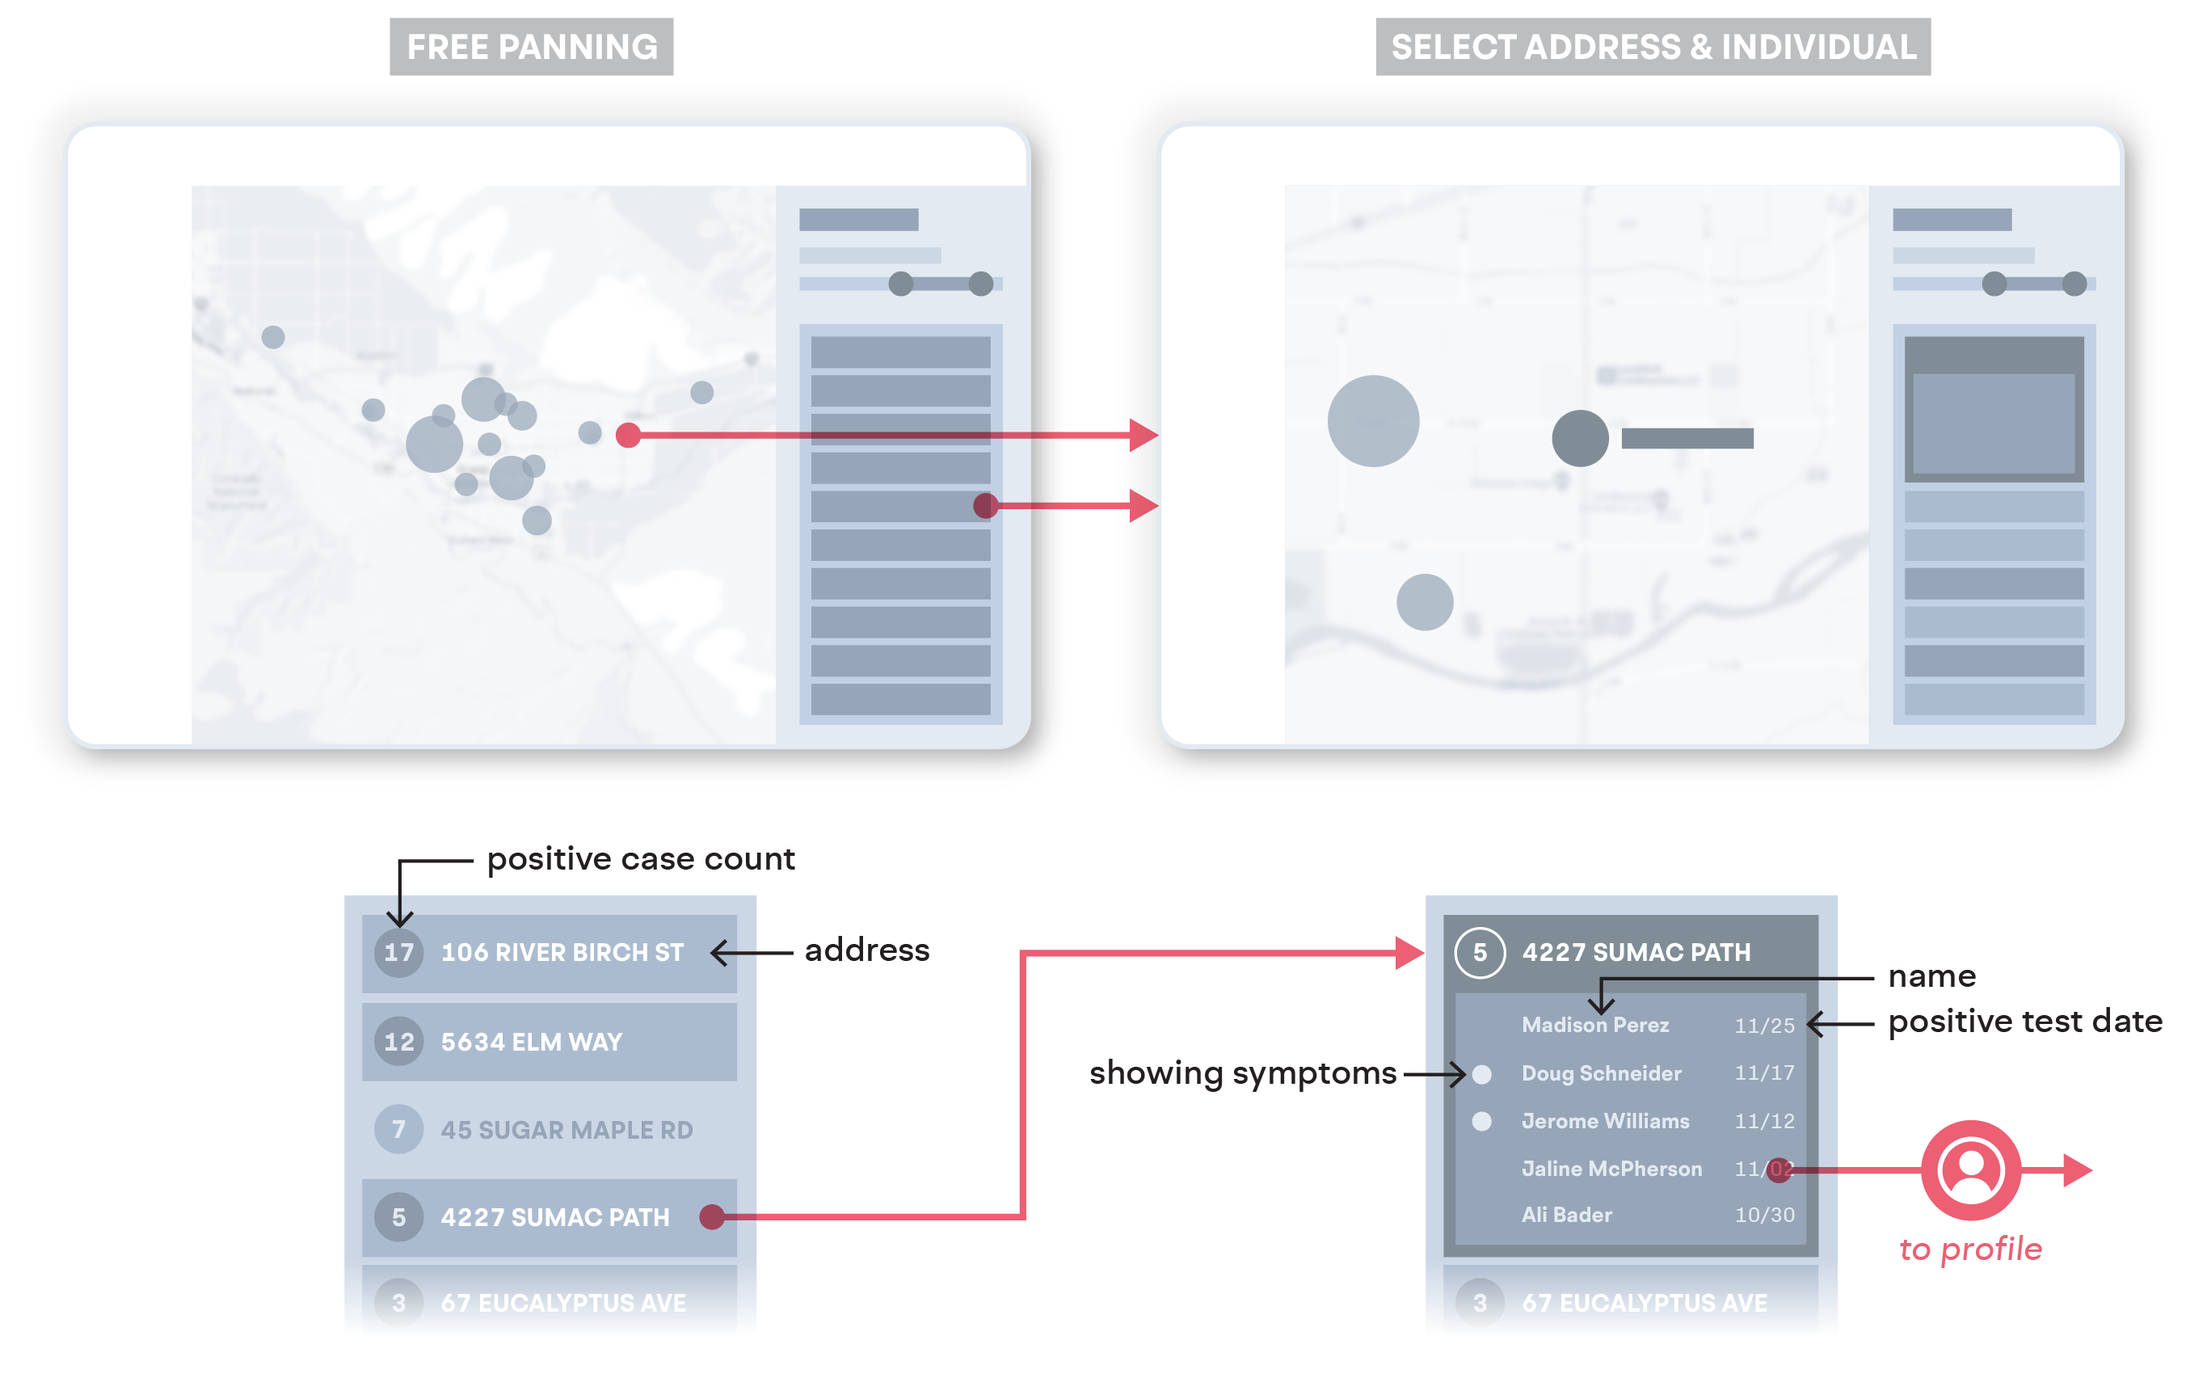
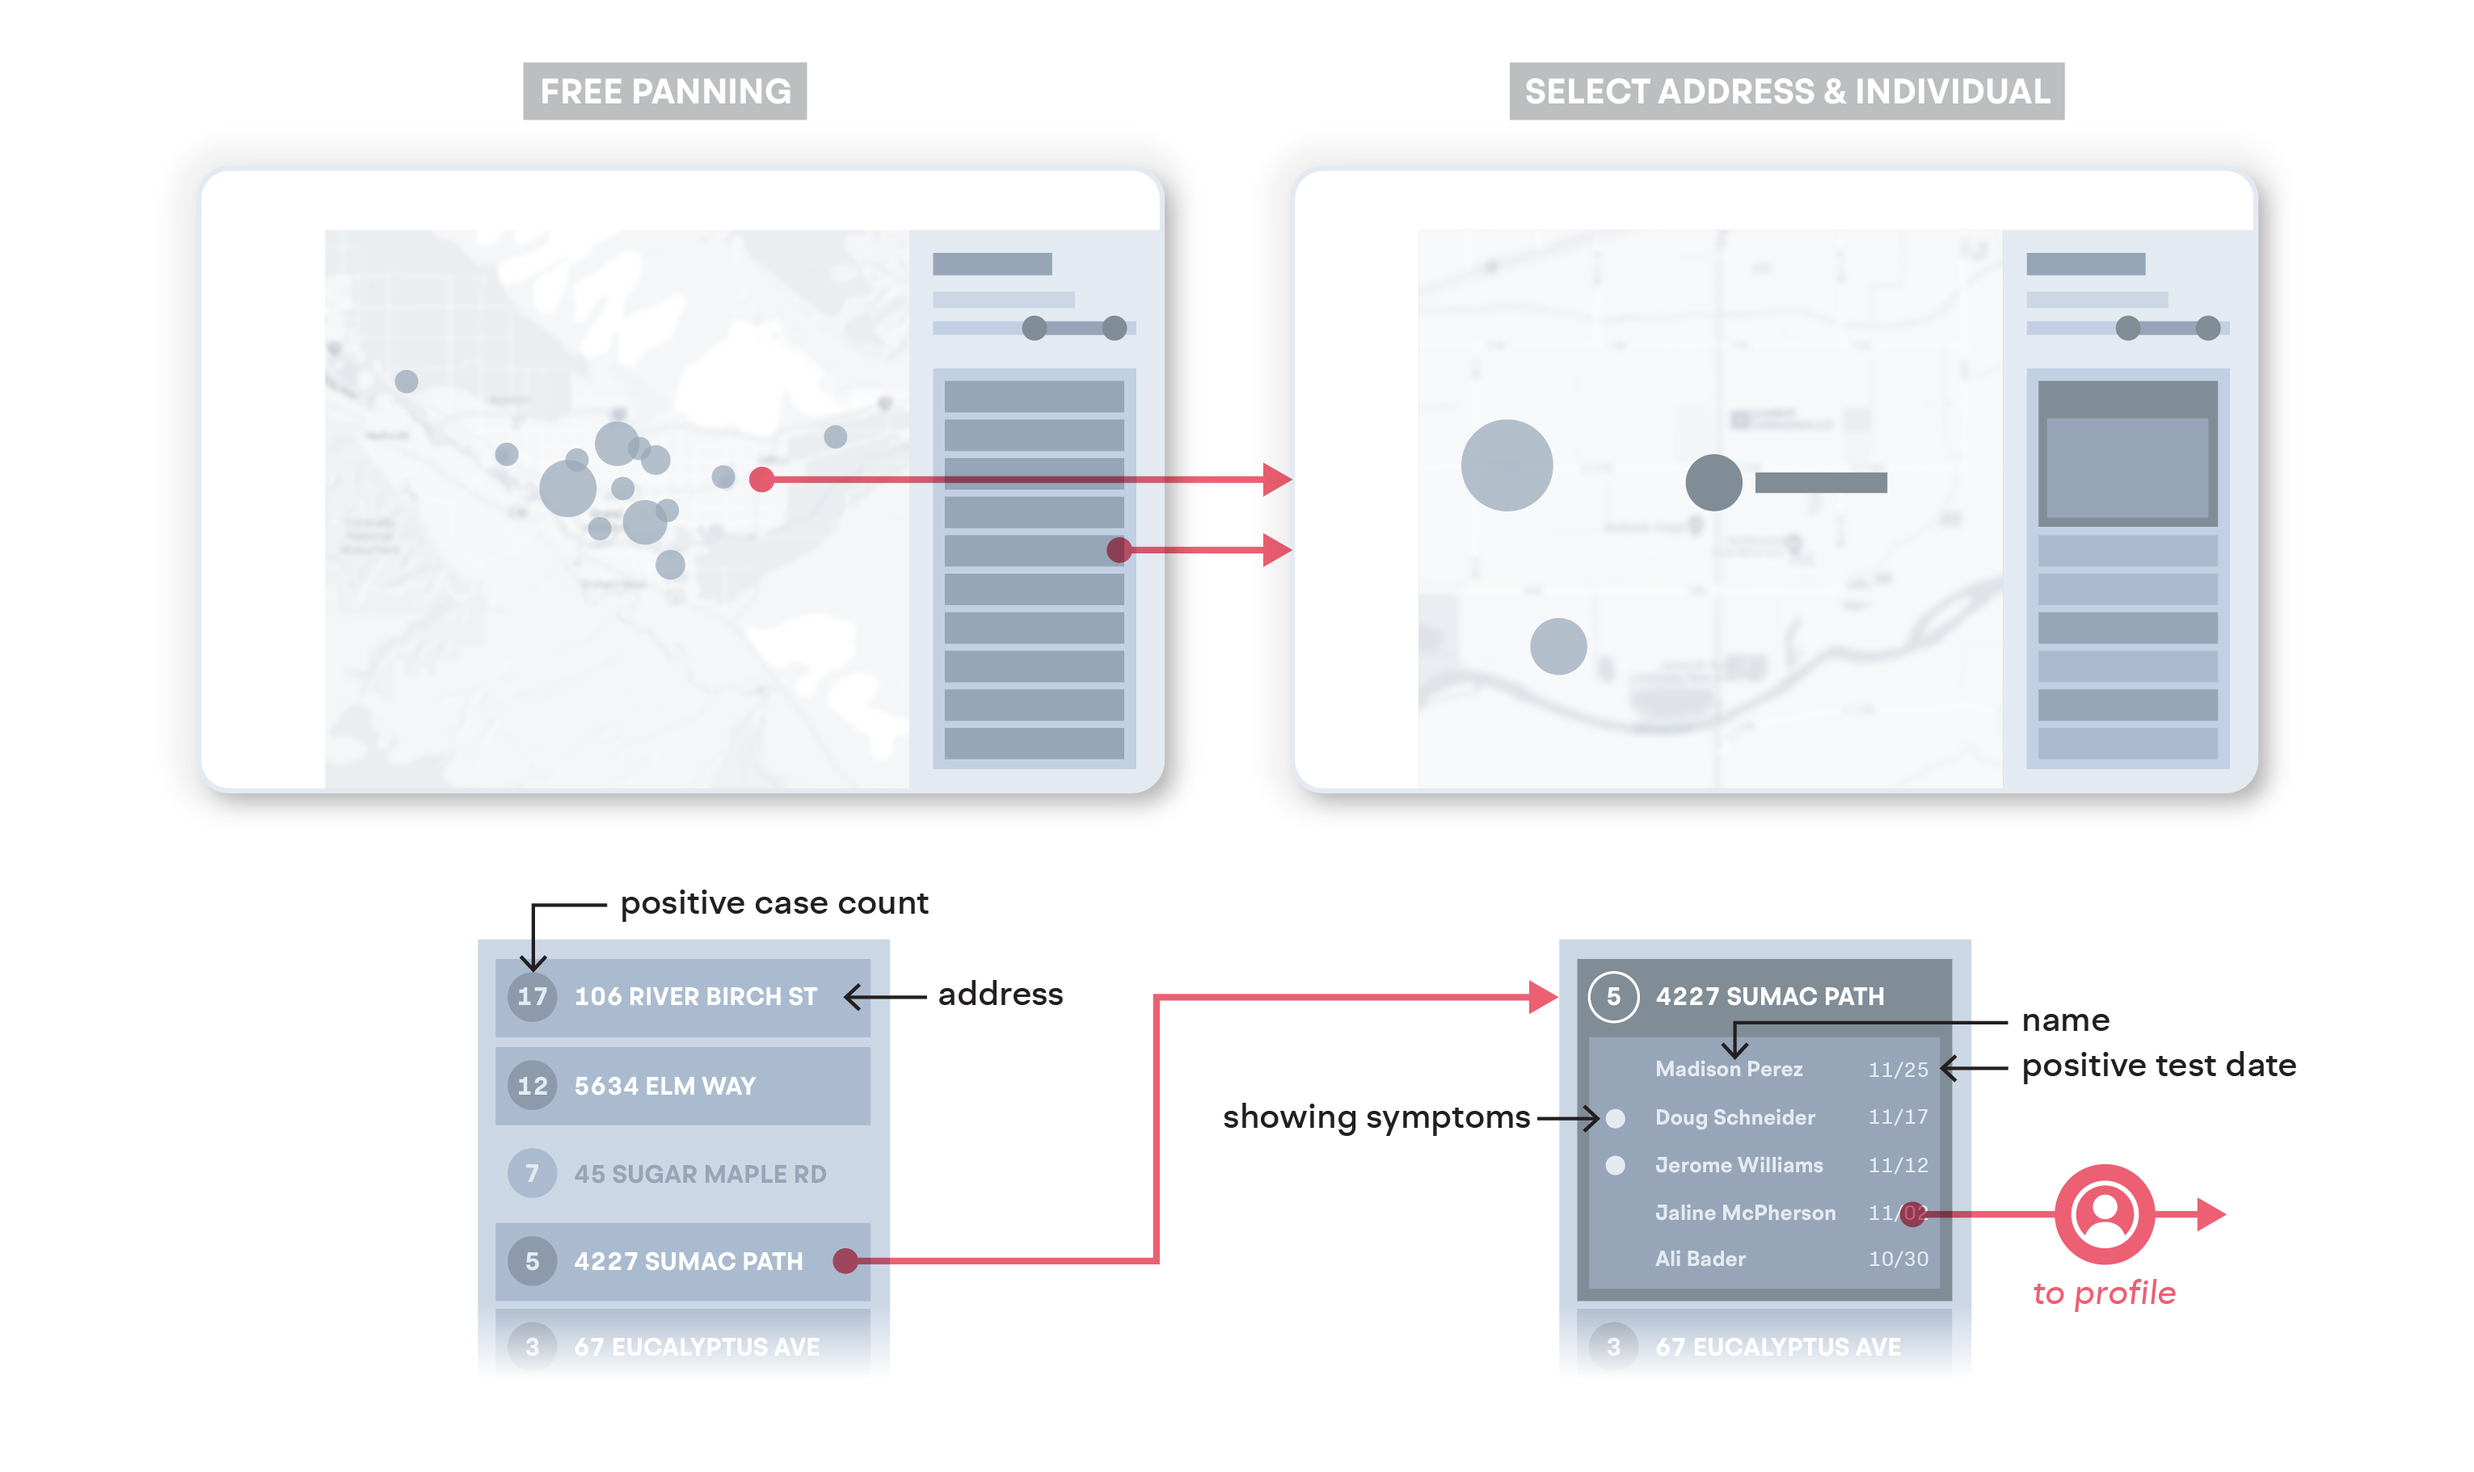
commit

diff --git a/caseStudy.js b/caseStudy.js
@@ -25,9 +25,11 @@ let lookout = [
         type: "section",
         name: "Mapping the Data",
         desc: "We first decided to build an interactive map to visualize the spatial distribution of the university's positive cases. Administrators were most interested in finding symptomatic students in locations with large numbers of positive cases, and being able to see these students' information in more detail.",
-        image: "casemap_wireframe_trans.png",
-        image2: "",
-        imageClass:"single"
+        image: "casemap_wireframe.jpg",
+        shadow: "",
+        shadow2: "shadow-image",
+        imageClass:"single",
+        width:"w-[70%]"
     },
     {
         type: "section",
@@ -41,9 +43,11 @@ let lookout = [
         type: "section",
         name: "",
         desc: "After viewing the case map, administrators were primarily interested in cases that clustered on main campus, as students living off campus were out of their jurisdictional control. With this knowledge, we decided to explore the spatial visualization potential at this finer resolution.",
-        image: "campus_diagram.png",
-        image2: "",
-        imageClass:"single"
+        image: "campus_diagram.jpg",
+        shadow: "",
+        shadow2: "shadow-image",
+        imageClass:"single",
+        width:"w-[60%]"
     },
     {
         type: "divider",
@@ -53,9 +57,11 @@ let lookout = [
         type: "section",
         name: "Dorms Visualization",
         desc: "At CMU, students are grouped into one or more mavilies, which include living clusters, in-person classes, sports teams, and performing arts groups. Administrators find the mavilies most useful as they often point to sources of localized outbreaks and can be used to measure students' levels of probable interaction. These views allow admin to see if there are positive case trends within dorm floors and living mavilies, and investigate whether or not these patterns are related to other non-living mavilies.",
-        image: "dorms_wireframe_trans.png",
-        image2: "",
-        imageClass:"single"
+        image: "dorms_wireframe.jpg",
+        shadow: "",
+        shadow2: "shadow-image",
+        imageClass:"single",
+        width:"w-[90%]"
     },
     {
         type: "section",
@@ -200,9 +206,11 @@ let insights = [
         type: "section",
         name: "",
         desc: "Studio's mapping UI did not use our new design system due to the absence of dark-mode theming. I identified gaps in our current design system to better understand the LOE required and documented proposed modifications to our color palette, components, and iconography as design system debt.",
-        image: "ib_colorguide.png",
-        image2: "",
-        imageClass:"single"
+        image: "ib_colorguide.jpg",
+        shadow: "",
+        shadow2: "shadow-image",
+        imageClass:"single",
+        width:"w-[90%]"
     },
     {
         type: "section",
@@ -240,7 +248,7 @@ let insights = [
         desc1: "Served as a design system audit, outlining best practices and next-steps for data-analytics dashboards and dark-mode theming",
         icon2: "subdirectory_arrow_right",
         header2: "Setting Product Direction",
-        desc2:"Design articulated the complexity and efforts entailed in pursuing this concept as a user-facing product, assisting in strategic conversations amongst leadership",
+        desc2:"Design articulated the complexity and efforts entailed in pursuing this concept as a user-facing product, assisting in strategic conversations among leadership",
         icon3: "request_quote",
         header3: "Cross-Contributing",
         desc3: "Ensured high-priority revenue-dependent deadlines were met while reducing design and engineering workloads"
@@ -355,7 +363,10 @@ let projects = [
     name: "Showing Metadata",
     desc: "I conducted card-sorting activities with our technical and non-technical users to determine which metadata was most important to them by asset type.  This informed metadata priority for the list view responsive design and progressive disclosure user experience.",
     image: "disclosure.gif",
-    imageClass:"single"
+    shadow: "",
+    shadow2: "shadow-image",
+    imageClass:"single",
+    width:"w-[90%]"
 },
 {
     type: "divider",
@@ -423,12 +434,14 @@ function singleVideo(img) {
     return `<div class="dark:bg-dark-2 dark:border-dark-2 rounded-2xl border-solid aspect-ratio border-2  border-gray-100 flex flex-col  bg-gray-100 grow items-center justify-center"><video class="h-auto min-h-20 w-[90%] dark:shadow-image-dm shadow-image rounded" src="images/${img}" autoplay loop muted playsinline><source src="images/${img}" type="video/webm">Your browser does not support the video tag.</video></div>`
    };
 
-function singleImage(img, shadow) {
- return `<div class="dark:bg-dark-2 dark:border-dark-2 rounded-2xl border-solid aspect-ratio border-2  border-gray-100 flex flex-col  bg-gray-100 grow overflow-hidden items-center justify-center"><img class="${shadow} dark:${shadow}-dm w-[90%] rounded" src="images/${img}"></div>`
+function singleImage(img, shadow, shadow2, width) {
+ return `<div class="dark:bg-dark-2 dark:border-dark-2 rounded-2xl border-solid aspect-ratio border-2  border-gray-100 flex flex-col  bg-gray-100 grow overflow-hidden items-center justify-center">
+ <img class="${shadow} dark:${shadow2}-dm ${width} rounded" src="images/${img}">
+ </div>`
 };
 
 function doubleImage(img, img2){
-    return `<div class="dark:bg-dark-2 dark:border-dark-2 aspect-ratio overflow-hidden gap-y-2 flex flex-col gap-y-2"><div class="relative rounded-2xl flex items-center justify-center flex-1 bg-gray-100"><img class="w-[60%] h-auto" src="images/${img}"><div class="absolute left-[5%] top-[10%] text-gray-400">Original</div></div><div class="relative rounded-2xl flex items-center justify-center flex-1 bg-gray-100"><img class="rounded w-[60%] h-auto" src="images/${img2}"><div class="absolute left-[5%] top-[10%] text-gray-400">Revised</div></div></div>`
+    return `<div class="dark:bg-dark-2 dark:border-dark-2 aspect-ratio overflow-hidden gap-y-2 flex flex-col gap-y-2"><div class="relative rounded-2xl flex items-center justify-center flex-1 bg-gray-100"><img class="w-[60%] h-auto" src="images/${img}"><div class="absolute left-[5%] top-[10%] text-gray-400">Original</div></div><div class="relative rounded-2xl flex items-center justify-center flex-1 dark:bg-dark-2 bg-gray-100"><img class="rounded w-[60%] h-auto" src="images/${img2}"><div class="absolute left-[5%] top-[10%] text-gray-400">Revised</div></div></div>`
 };
 
 function sliderImage(img, img2, bg2, darkbg2, border2){
@@ -464,9 +477,9 @@ function doubleOverlay(img, img2, shadow){
     </div>`
 }
 
-function imageSelection(c, img, img2, img3, shadow, shadow2, bg2, darkbg2, border2, height) {
+function imageSelection(c, img, img2, img3, shadow, shadow2, bg2, darkbg2, border2, height, width) {
     if (c == "single") {
-        return singleImage(img, shadow);
+        return singleImage(img, shadow, shadow2, width);
     }
     else if (c == "single-video"){
         return singleVideo(img);
@@ -503,7 +516,7 @@ if (project.type == "section"){
 projectCard.innerHTML = `
 	<div class="flex flex-col-reverse gap-y-4 md:flex-row md:gap-x-6 basis-full">
 
-    ${imageSelection(project.imageClass, project.image, project.image2, project.image3, project.shadow, project.shadow2, project.bg2, project.darkbg2, project.border2, project.height)}
+    ${imageSelection(project.imageClass, project.image, project.image2, project.image3, project.shadow, project.shadow2, project.bg2, project.darkbg2, project.border2, project.height, project.width)}
 
     <div class="flex flex-col shrink-0 gap-y-0.5 md:w-60 lg:w-80">
     <div class="dark:text-zinc-100 text-lg font-medium">${project.name}</div>
@@ -583,7 +596,7 @@ else if (project.type == "buttons"){
 else {
     projectCard.innerHTML =
     `<div class="flex flex-col-reverse gap-y-4 md:flex-row md:gap-x-6 basis-full">
-    ${imageSelection(project.imageClass, project.image, project.image2, project.image3, project.shadow, project.shadow2, project.bg2, project.border2, project.height)}
+    ${imageSelection(project.imageClass, project.image, project.image2, project.image3, project.shadow, project.shadow2, project.bg2, project.border2, project.height, project.width)}
   </div>`
 }
 

diff --git a/navigation.js b/navigation.js
@@ -75,7 +75,7 @@ ${generateBtn2()}
       </div>
       <div class="fixed left-4 bottom-4 flex gap-x-2 md:left-8 lg:left-4 lg:flex-col lg:gap-y-2 nav">
         ${themeButton()}
-        <div class="flex dark:bg-dark-3 bg-gray-200 h-[2px]"></div>
+        <div class="flex dark:bg-dark-3 bg-gray-200 w-[2px] lg:w-[auto] lg:h-[2px]"></div>
         ${tertiaryButton('LI', links[0])}
         ${tertiaryButton('CV', links[1])}
         ${tertiaryButton(email, links[2])}

diff --git a/output.css b/output.css
@@ -787,6 +787,18 @@ video {
   width: 100vw;
 }
 
+.w-\[50\%\] {
+  width: 50%;
+}
+
+.w-\[70\%\] {
+  width: 70%;
+}
+
+.w-\[2px\] {
+  width: 2px;
+}
+
 .min-w-32 {
   min-width: 8rem;
 }
@@ -1622,8 +1634,16 @@ body {
     left: 1rem;
   }
 
+  .lg\:h-\[2px\] {
+    height: 2px;
+  }
+
   .lg\:w-80 {
     width: 20rem;
+  }
+
+  .lg\:w-\[auto\] {
+    width: auto;
   }
 
   .lg\:flex-row {
